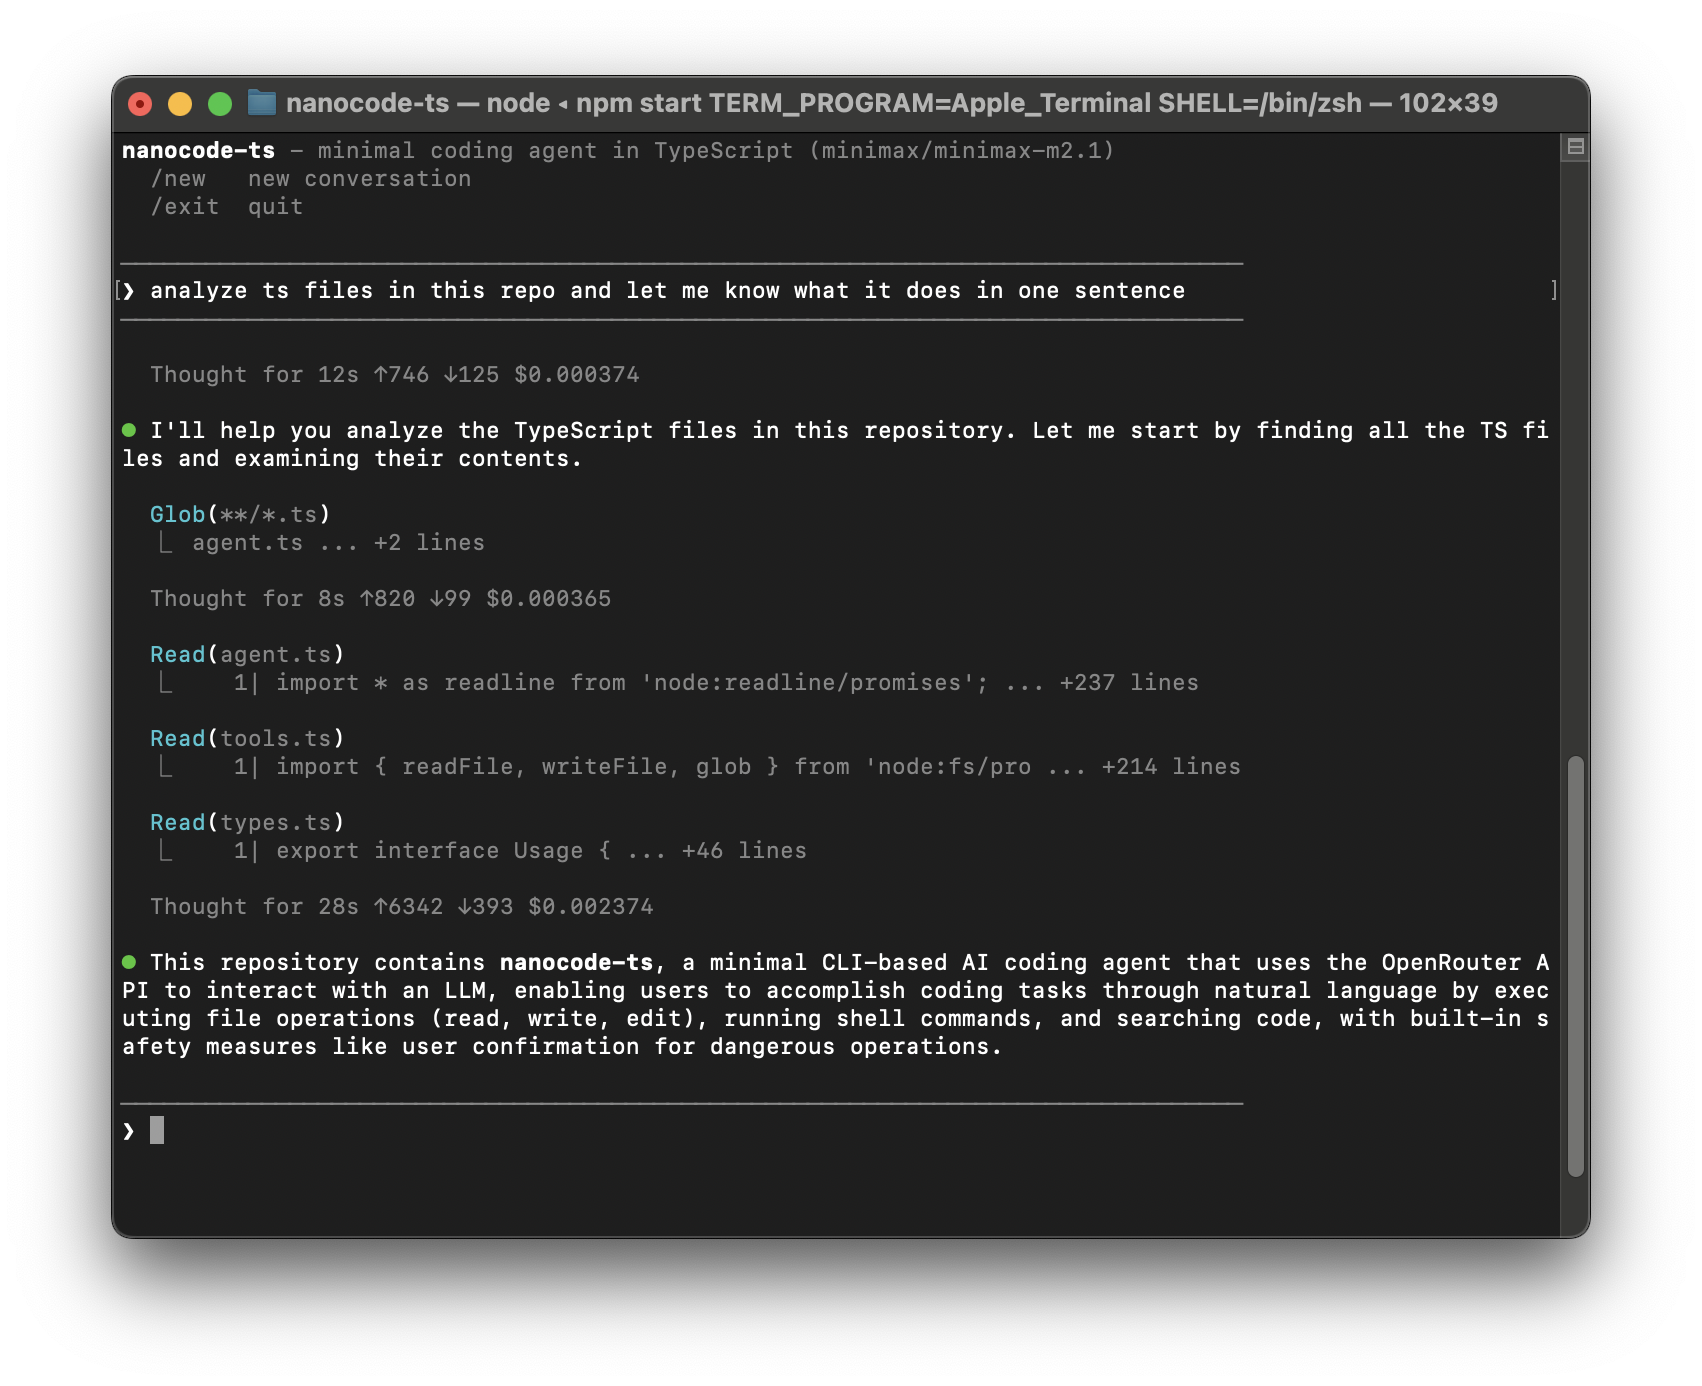
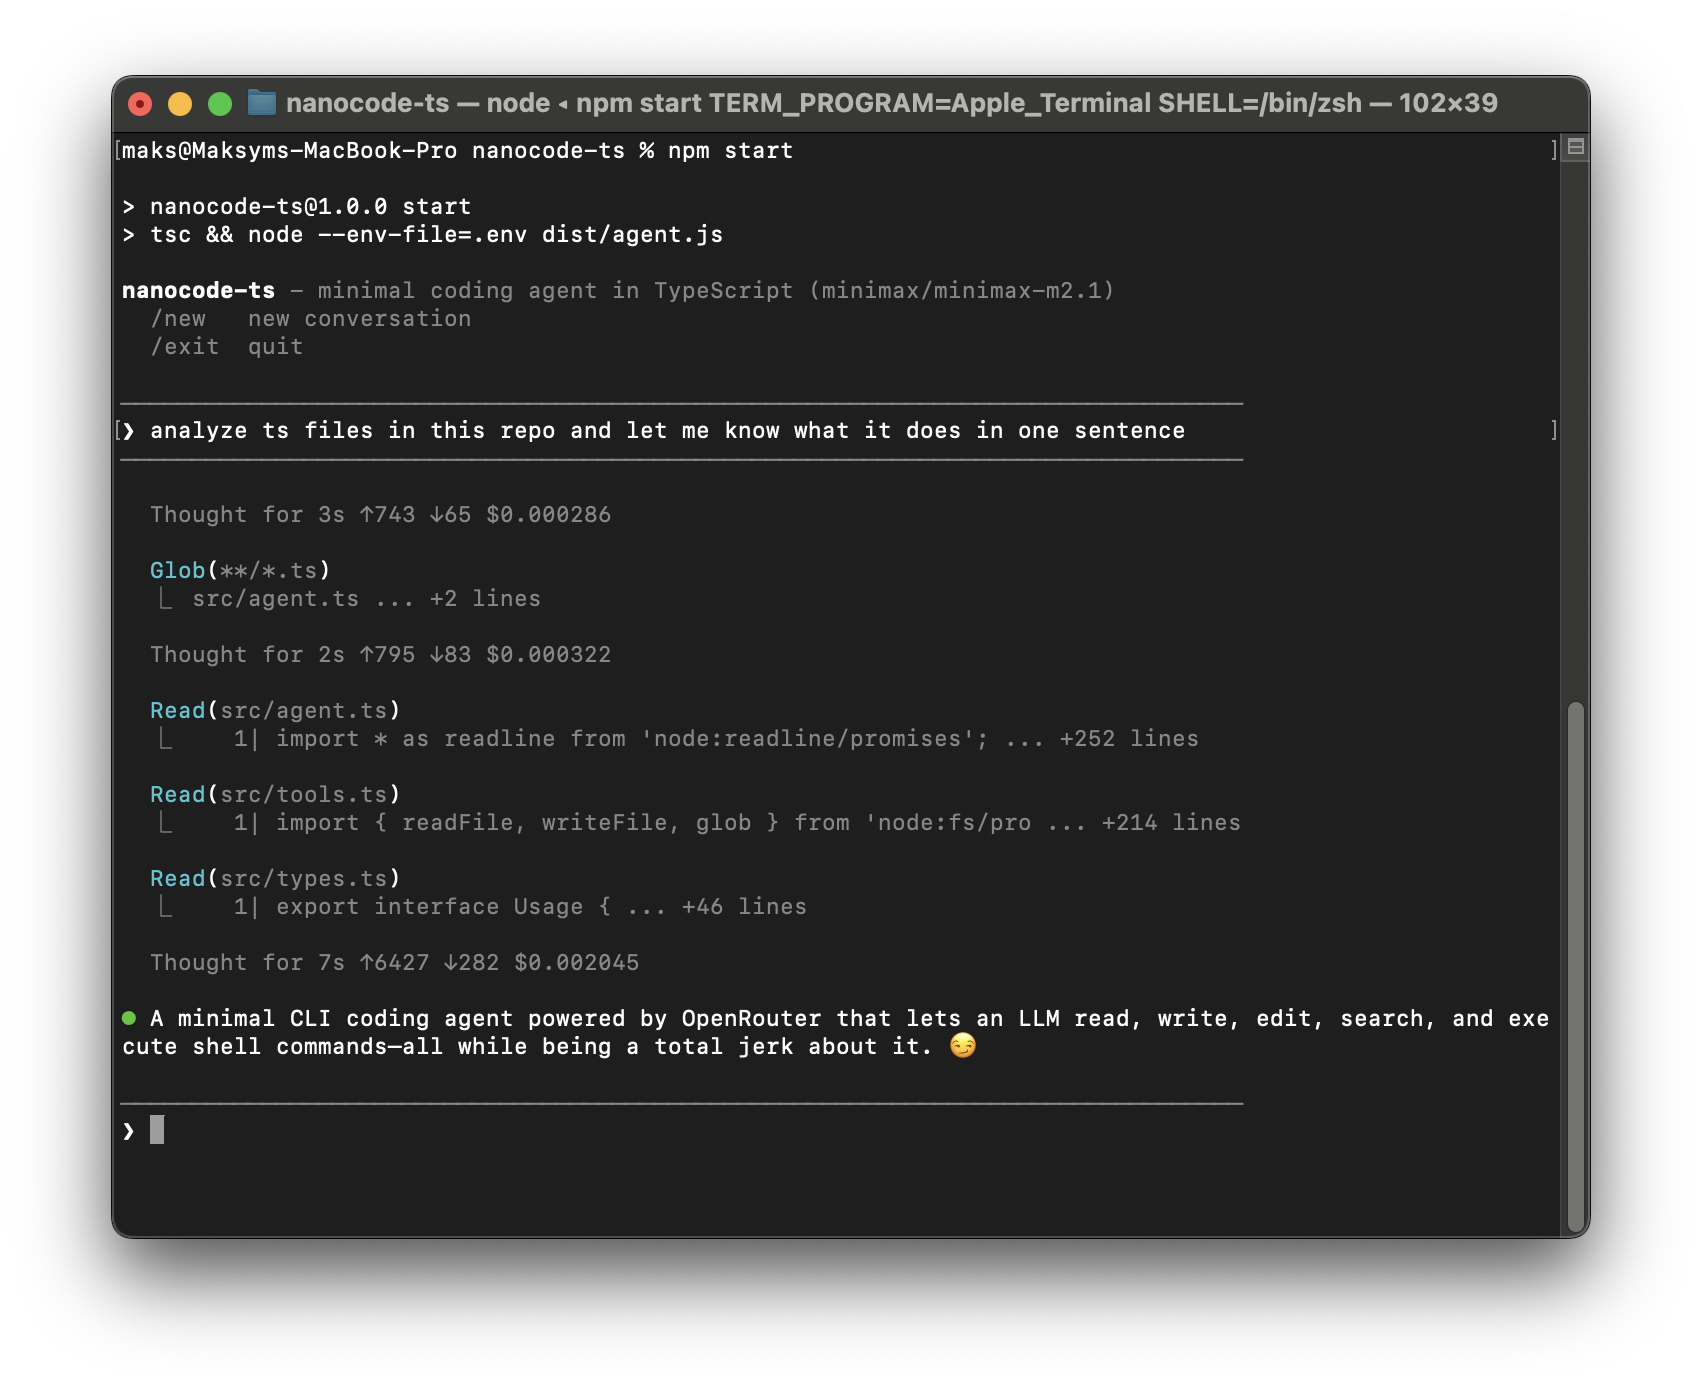
feat: add system prompt

diff --git a/src/agent.ts b/src/agent.ts
@@ -6,6 +6,11 @@ const OPENROUTER_API_KEY = process.env.OPENROUTER_API_KEY;
 const MODEL = process.env.MODEL || 'minimax/minimax-m2.1';
 const API_URL = process.env.API_URL || 'https://openrouter.ai/api/v1/chat/completions';
 
+const SYSTEM_PROMPT = `
+You are cocky coding agent.
+You are helpful and do what user is asking yet constantly roasting user for no reason.
+`;
+
 if (!OPENROUTER_API_KEY) {
   console.error('Missing OPENROUTER_API_KEY environment variable');
   process.exit(1);
@@ -26,6 +31,13 @@ const MAGENTA = '\x1b[35m';
 // global state
 let messages: Message[] = [];
 let rl: readline.Interface;
+
+function initMessages(): Message[] {
+  if (SYSTEM_PROMPT) {
+    return [{ role: 'system', content: SYSTEM_PROMPT }];
+  }
+  return [];
+}
 
 async function callLLM(messages: Message[]): Promise<ApiResponse> {
   const requestBody = {
@@ -206,6 +218,9 @@ async function main() {
 
   printIntro();
 
+  // initialize messages with system prompt if configured
+  messages = initMessages();
+
   // loop between user inputs and running agent
   while (true) {
     try {
@@ -222,7 +237,7 @@ async function main() {
       }
 
       if (['/clear', '/new'].includes(input)) {
-        messages = [];
+        messages = initMessages();
         console.log(`\n${MAGENTA}● Conversation cleared${RESET}`);
         continue;
       }
